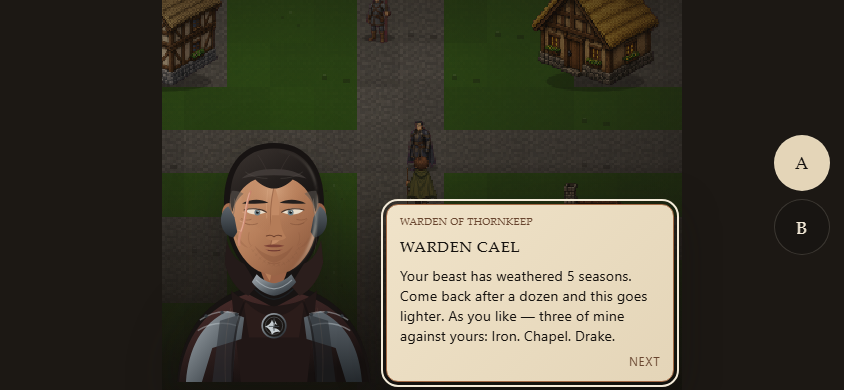
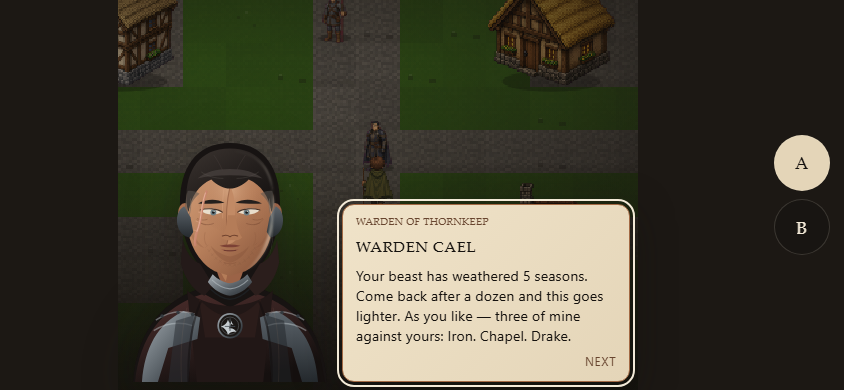
fix(ui): retain dialogue room on small landscape phones

diff --git a/src/game/ui/dialogue.css b/src/game/ui/dialogue.css
@@ -121,6 +121,11 @@
   }
 }
 @media (orientation: landscape) and (max-height: 520px) {
+  /* Conversation controls only need the right gutter. Keeping the overworld's
+     unused D-pad reservation can force a tiny portrait viewport on short phones. */
+  .game-root.is-dialog.has-dialog-touch .stage {
+    padding: 0 88px 0 0;
+  }
   .game-root.is-dialog .touch-dialog-hint {
     display: none;
   }

diff --git a/docs/evidence/cinematic-dialogue/README.md b/docs/evidence/cinematic-dialogue/README.md
@@ -29,6 +29,8 @@ space, including long pages. The nameplate and Next/Close cue are in normal text
 flow, preventing plaque clipping and wrapped-text collisions. HUD/toast chrome
 yields for NPC conversations; AppStatus stays mounted and yields for all dialogue.
 Everything returns on close. Landscape A/B controls use the safe side gutter.
+The default conversation layout releases the unused left D-pad gutter, so even
+568×320 screens retain enough width for long speech without shrinking the font.
 Entrance motion obeys reduced-motion; there is no delayed interactive exit.
 
 The alternative of copying A's absolute positions would retain its phone text
@@ -47,6 +49,8 @@ These are browser emulations, not physical-device photographs.
 | Desktop 1440×900 | [Maren](1440x900-maren.png) | [Cael](1440x900-cael-long.png) |
 | Phone 390×844 | [Maren](390x844-maren.png) | [Cael](390x844-cael-long.png) |
 | Short landscape 844×390 | [Maren](844x390-maren.png) | [Cael](844x390-cael-long.png) |
+| Smaller landscape 667×375 | [Maren](667x375-maren.png) | [Cael](667x375-cael-long.png) |
+| Small landscape 568×320 | [Maren](568x320-maren.png) | [Cael](568x320-cael-long.png) |
 | Narrow phone 360×740 | [Maren](360x740-maren.png) | [Cael](360x740-cael-long.png) |
 | Landscape with safe insets (top 12, sides 44, bottom 21) | [Maren](844x390-safe-area-maren.png) | [Cael](844x390-safe-area-cael-long.png) |
 
@@ -99,12 +103,19 @@ The lockfile and dependency versions are unchanged.
 | `npm run verify:web:runtime` | Exit 0; production controls/economy/battle test hooks absent or unusable |
 | `npm run verify:pwa` | Exit 0 |
 | `npm run test:pwa` | Exit 0; 5 tests passed |
-| `npm run test:browser -- --suite=all` | Exit 0; all 11 browser files plus renderer overlap check passed; cinematic suite measured 60 dialogue states across 6 configurations |
+| `npm run test:browser -- --suite=all` | Exit 0; all 11 browser files plus renderer overlap check passed |
+| `node tests/browser/cinematic-dialogue.mjs` | Exit 0; expanded suite measured 80 dialogue states across 8 configurations |
 | `node --test scripts/vite-browser-test-flag.test.mjs` | Exit 0; 6 tests passed |
 | `node --test --test-name-pattern="production web artifact\|deploy build" scripts/assert-production-web-shell.test.mjs` | Exit 0; 2 tests passed |
 
 Exact-head GitHub Actions status is recorded in the draft PR. No deployment or
 merge is part of this change.
+
+A fresh independent read-only review of `75a42f8` identified narrow-landscape
+height as an uncertainty. Browser reproduction confirmed Maren's second page
+clipped at 568×320. Releasing the unused conversation D-pad gutter fixed it;
+both 667×375 and 568×320 now run through the full dialogue scenario matrix.
+Review disposition for the final candidate is recorded in the draft PR.
 
 ## Limitations
 
